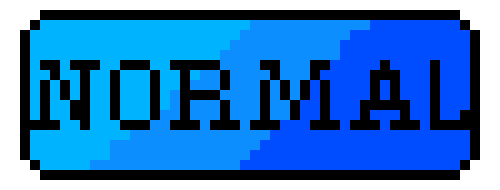
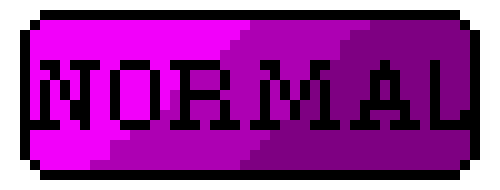
Configure page02

diff --git a/Pacman/app.js b/Pacman/app.js
@@ -14,6 +14,8 @@
   var button;
   var button1;
   var button2;
+  var button3;
+  var button4;
   var font;
   var maze;
   
@@ -24,9 +26,20 @@
       logo = loadImage('images/logo.png');
       logo1 = loadImage('images/logo1.png');
       maze = loadImage('images/maze.png');
+
       loadImage('images/exit.png');
       loadImage('images/play.png');
       loadImage('images/configure.png');
+      loadImage('images/exit1.png');
+      loadImage('images/play1.png');
+      loadImage('images/configure1.png');
+      loadImage('images/exit2.png');
+      loadImage('images/play2.png');
+      loadImage('images/configure2.png');
+
+      loadImage('images/normal.png');
+      loadImage('images/random.png');
+
       font = loadFont("Font.otf");
 
       intro_music = loadSound('sounds/pacman_beginning.mp3');
@@ -105,6 +118,7 @@ function exitGame() {
 }
 
   function draw() {
+      //Main Menu
     if (mode == 0){
         removeElements();
         background(0);
@@ -137,6 +151,77 @@ function exitGame() {
         button1.mousePressed(exitGame);
     }
 
+    function normalMode() {
+        mode = 3
+    }
+    // Normal mode
+    if (mode == 3){
+        removeElements();
+        background(0);
+        image(logo, 410, 315, 450, 300);
+        image(logo1, 400, 100, 300, 120);
+        fill("White");
+        textSize(35);
+        text("2021", 260, 160);
+        textSize(25);
+        text("3815ICT / 7805ICT", 300, 205);
+        textSize(15);
+        text("Jerry Li", 5, 700);
+        text("Yasin Cakar", 5, 730);
+        text("Mohammad Mari", 5, 760);
+        text("David Todorovic", 5, 790);
+        // Play button
+        button = createImg('images/play1.png');
+        button.position(325, 475);
+        button.size(175, 75);
+        button.mousePressed(mode1);
+        // Configrure button
+        button2 = createImg('images/configure1.png');
+        button2.position(323, 580);
+        button2.size(185, 85);
+        button2.mousePressed(mode2)
+        // Exit button
+        button1 = createImg('images/exit1.png');
+        button1.position(325, 700);
+        button1.size(175, 75);
+        button1.mousePressed(exitGame);
+    }
+    function randomMode() {
+        mode = 4
+    }
+        // Random mode
+        if (mode == 4){
+            removeElements();
+            background(0);
+            image(logo, 410, 315, 450, 300);
+            image(logo1, 400, 100, 300, 120);
+            fill("White");
+            textSize(35);
+            text("2021", 260, 160);
+            textSize(25);
+            text("3815ICT / 7805ICT", 300, 205);
+            textSize(15);
+            text("Jerry Li", 5, 700);
+            text("Yasin Cakar", 5, 730);
+            text("Mohammad Mari", 5, 760);
+            text("David Todorovic", 5, 790);
+            // Play button
+            button = createImg('images/play2.png');
+            button.position(325, 475);
+            button.size(175, 75);
+            button.mousePressed(mode1);
+            // Configrure button
+            button2 = createImg('images/configure2.png');
+            button2.position(323, 580);
+            button2.size(185, 85);
+            button2.mousePressed(mode2)
+            // Exit button
+            button1 = createImg('images/exit2.png');
+            button1.position(325, 700);
+            button1.size(175, 75);
+            button1.mousePressed(exitGame);
+        }
+    //Configure Page
     if (mode == 2) {
         removeElements();
         background(0);
@@ -144,10 +229,19 @@ function exitGame() {
         text("CONFIGURE", 250, 100);
         textSize(30);
         text("MAZE OPTIONS:", 270, 200);
-        text("NORMAL", 100, 700);
+        //Normal mode
         image(maze, 200, 450, 250, 250);
-        text("RANDOM", 500, 700);
+        normal = createImg('images/normal.png');
+        normal.position(100, 700);
+        normal.size(175, 75);
+        normal.mousePressed(normalMode);
+        //Random mode
+        normal = createImg('images/random.png');
+        normal.position(500, 700);
+        normal.size(175, 75);
+        normal.mousePressed(randomMode);
     }
+
     if (mode == 1) {
       removeElements();
       background(0);
